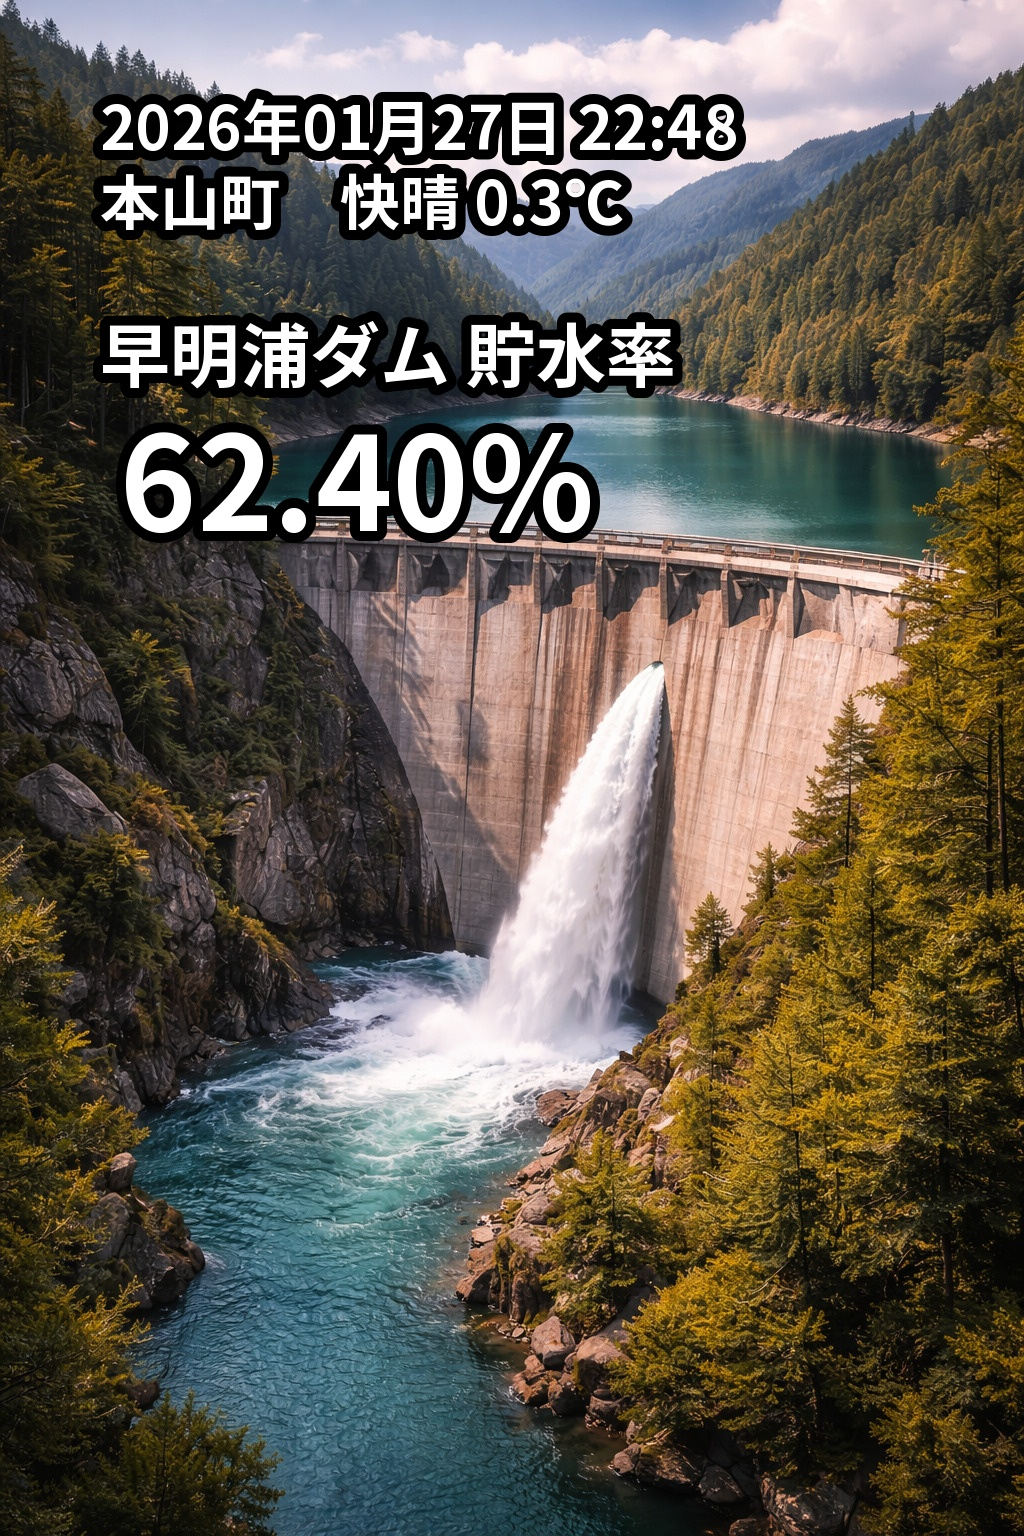
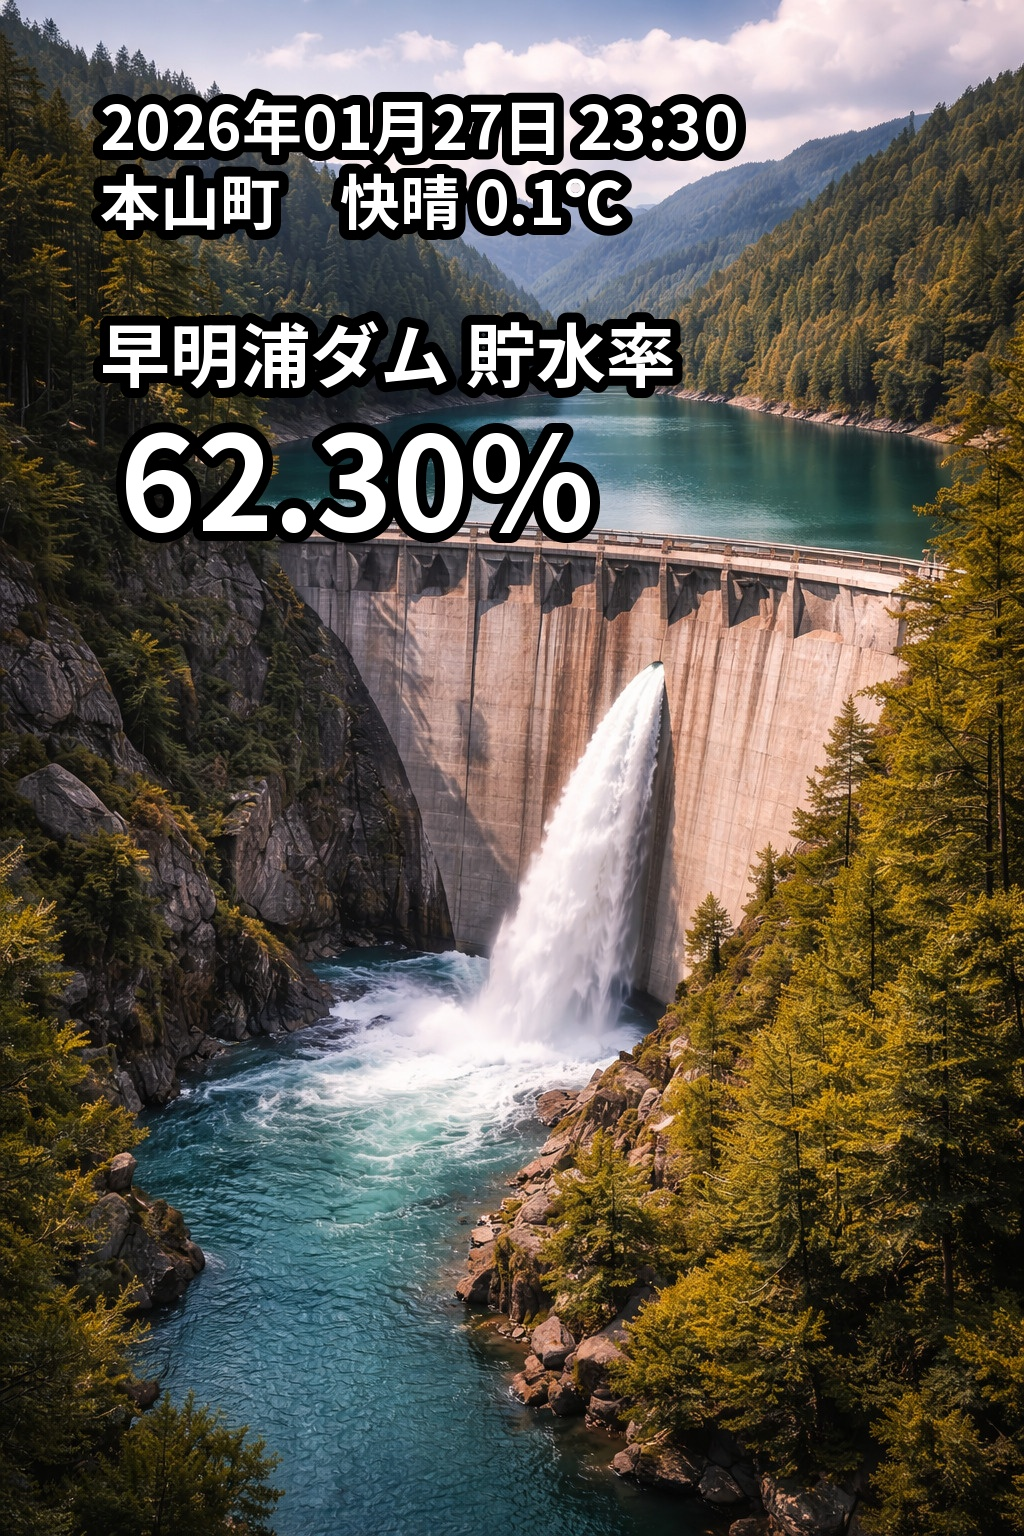
Update daily image

Changed region(s): [[0.2812, 0.25, 0.375, 0.375], [0.5938, 0.0625, 0.7188, 0.125], [0.5, 0.0938, 0.5625, 0.1562]]

diff --git a/index.html b/index.html
@@ -10,6 +10,6 @@
   </style>
 </head>
 <body>
-  <img src="result.jpg?v=202601272249" alt="早明浦ダム 貯水率" />
+  <img src="result.jpg?v=202601272330" alt="早明浦ダム 貯水率" />
 </body>
 </html>
